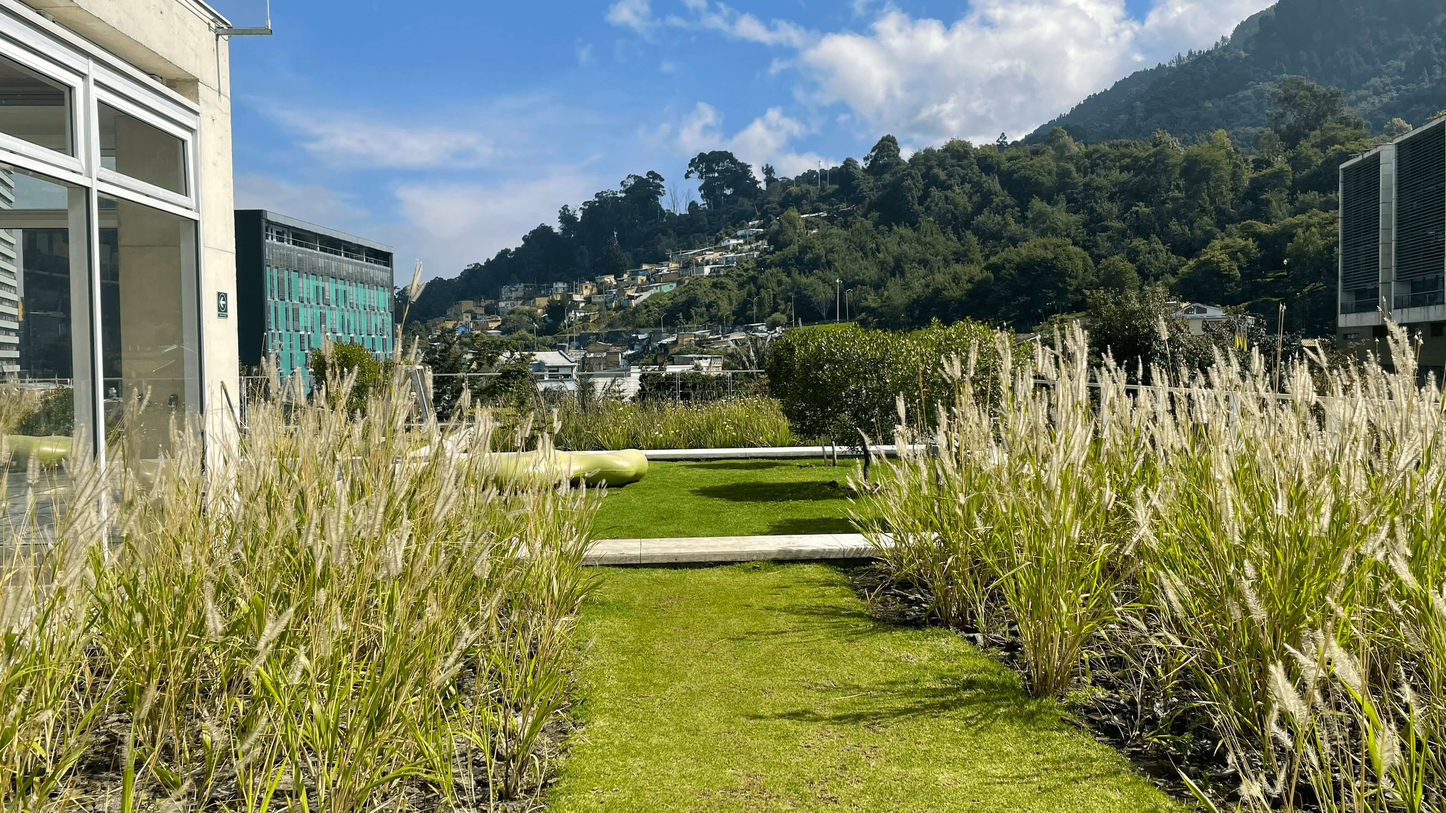
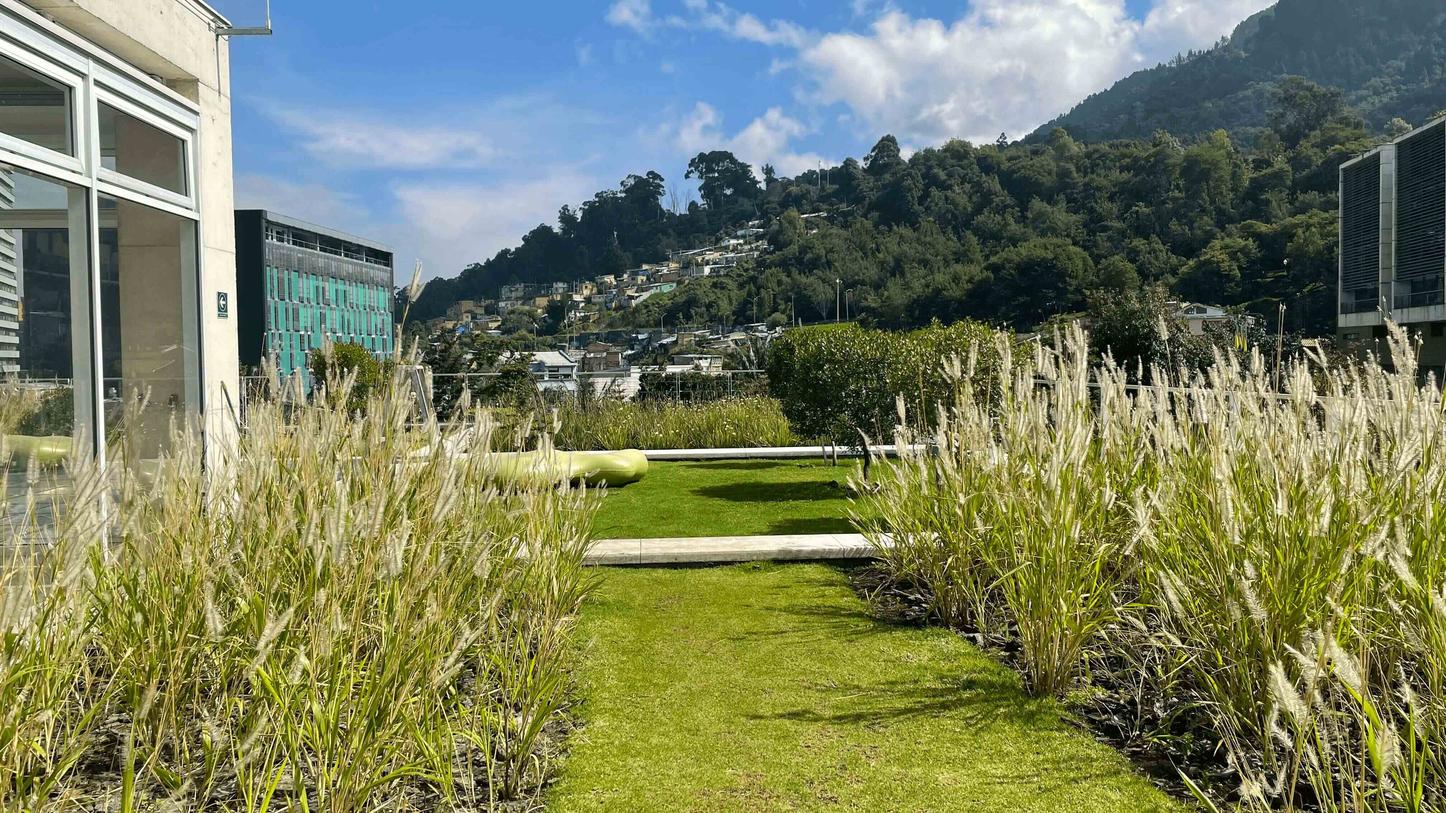
Image - About
New image and change of type

diff --git a/about.html b/about.html
@@ -100,7 +100,7 @@
     </header>
     <!--/ Header end -->
 
-    <div id="banner-area" class="banner-area" style="background-image:url(images/banner/banner_uniandes.png)">
+    <div id="banner-area" class="banner-area" style="background-image:url(images/banner/banner_uniandes.jpg)">
       <div class="banner-text">
         <div class="container">
             <div class="row">
